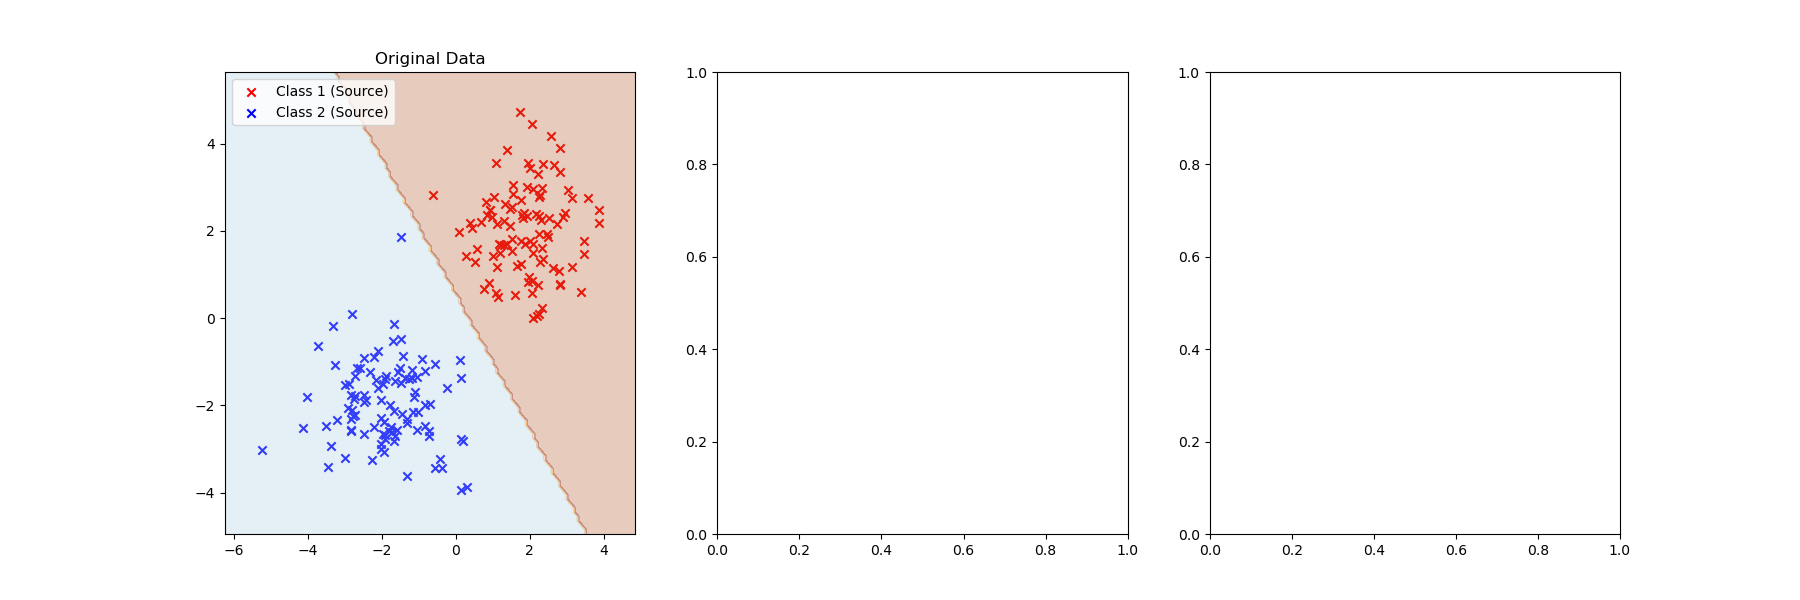
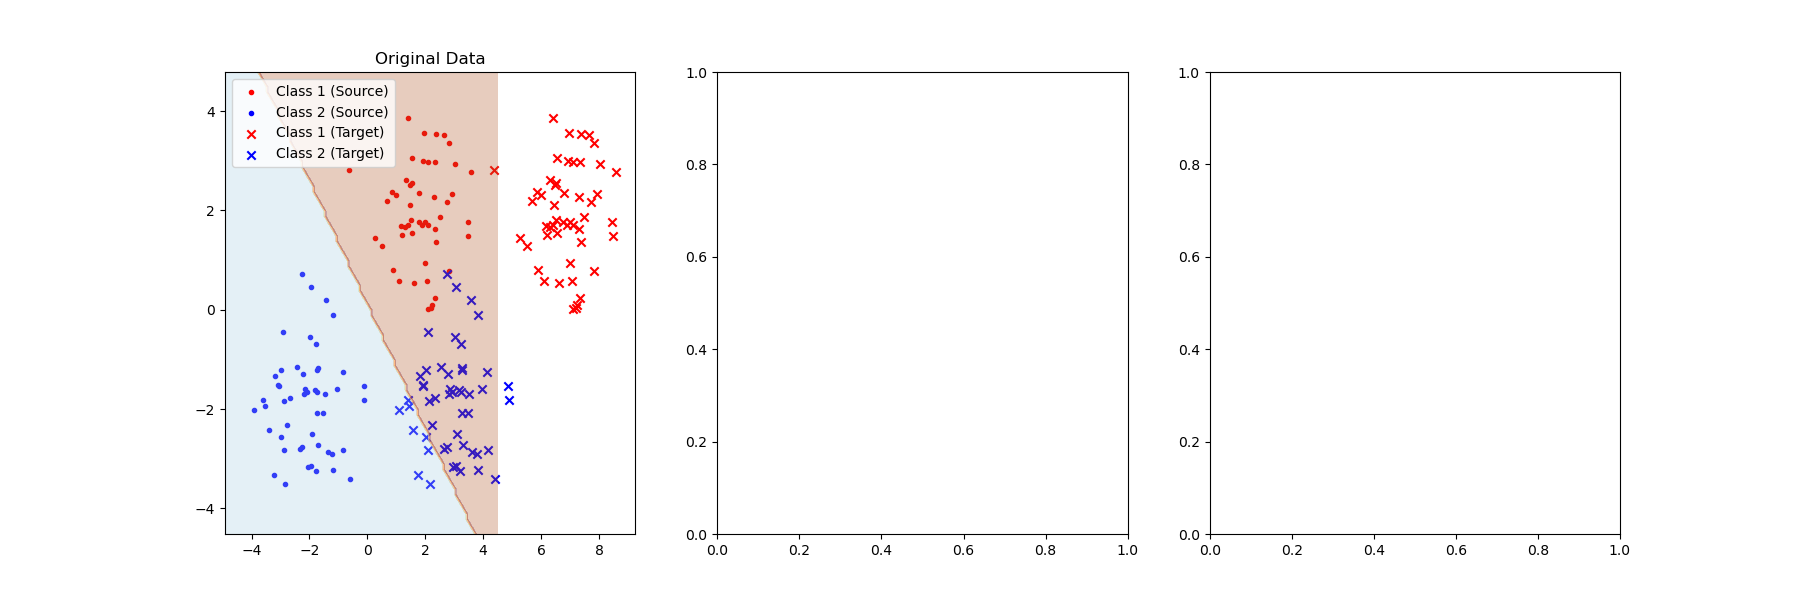
update

diff --git a/data_plot.py b/data_plot.py
@@ -9,20 +9,21 @@ fig, axes = plt.subplots(1, 3, figsize=(18, 6))
 np.random.seed(42)
 
 # Source Data Plot
-s_class_1 = np.random.multivariate_normal([2, 2], [[1, 0], [0, 1]], 100)
-s_class_2 = np.random.multivariate_normal([-2, -2], [[1, 0], [0, 1]], 100)
-axes[0].scatter(s_class_1[:, 0], s_class_1[:, 1], color='red', marker='x', label='Class 1 (Source)')
-axes[0].scatter(s_class_2[:, 0], s_class_2[:, 1], colorcle='blue', marker='x', label='Class 2 (Source)')
+s_class_1 = np.random.multivariate_normal([2, 2], [[1, 0], [0, 1]], 50)
+s_class_2 = np.random.multivariate_normal([-2, -2], [[1, 0], [0, 1]], 50)
+axes[0].scatter(s_class_1[:, 0], s_class_1[:, 1], color='red', marker='.', label='Class 1 (Source)')
+axes[0].scatter(s_class_2[:, 0], s_class_2[:, 1], color='blue', marker='.', label='Class 2 (Source)')
 
-# t_class_1 = s_class_1 + [5, 0]
-# t_class_2 = s_class_2 + [5, 0]
-# axes[0].scatter(t_class_1[:, 0], t_class_1[:, 1], color='red', marker='x', label='Class 1 (Target)')
-# axes[0].scatter(t_class_2[:, 0], t_class_2[:, 1], color='red', marker='+', label='Class 2 (Target)')
+t_class_1 = s_class_1 + [5, 0]
+t_class_2 = s_class_2 + [5, 0]
+axes[0].scatter(t_class_1[:, 0], t_class_1[:, 1], color='red', marker='x', label='Class 1 (Target)')
+axes[0].scatter(t_class_2[:, 0], t_class_2[:, 1], color='blue', marker='x', label='Class 2 (Target)')
 
 # Plot Decision Boundary
 x = np.vstack((s_class_1, s_class_2))
-y = np.hstack((np.ones(100), np.zeros(100)))
+y = np.hstack((np.ones(50), np.zeros(50)))
 svm = SVC(kernel='linear').fit(x, y)
+
 x_min, x_max = x[:, 0].min() - 1, x[:, 0].max() + 1
 y_min, y_max = x[:, 1].min() - 1, x[:, 1].max() + 1
 xx, yy = np.meshgrid(np.arange(x_min, x_max, 0.1),
